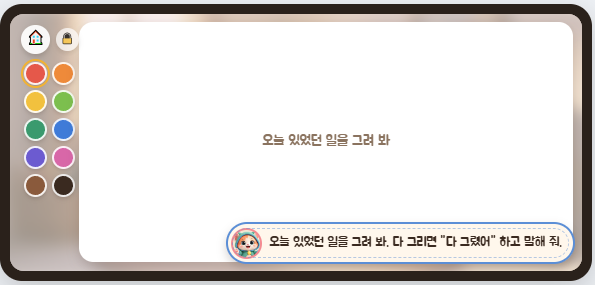
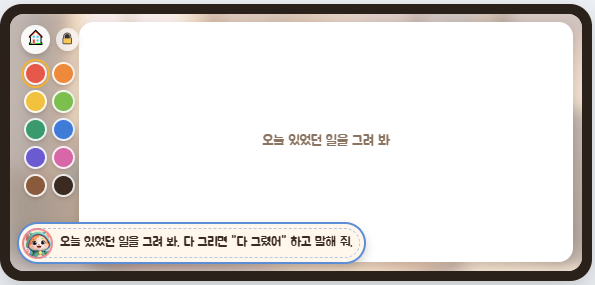
docs: Otto's line bottom-left while drawing; home buttons same size, effects on 'draw' only
Claude-Session: https://claude.ai/code/session_01SjSBQ7DtDnJYD2PENH3ma9

Changed region(s): [[0.0303, 0.7579, 0.9681, 0.9544], [0.5143, 0.8982, 0.5445, 0.9263]]

diff --git a/docs/일기모드_UI.html b/docs/일기모드_UI.html
@@ -60,7 +60,7 @@ button:focus-visible{outline:2px solid var(--accent);outline-offset:2px}
 .coin b{width:2.6cqw;height:2.6cqw;border-radius:50%;background:var(--coral);display:inline-block}
 
 /* narration band */
-.frame.drawing .band{left:auto;right:1.2cqw;bottom:1.2cqw;max-width:62cqw;min-height:0;gap:1.2cqw;padding:.6cqw 2cqw .6cqw .6cqw;border-width:.4cqw;border-radius:4cqw;cursor:pointer;transition:max-width .35s ease, padding .35s ease, opacity .35s ease;overflow:hidden}
+.frame.drawing .band{left:1.2cqw;right:auto;bottom:1.2cqw;max-width:62cqw;min-height:0;gap:1.2cqw;padding:.6cqw 2cqw .6cqw .6cqw;border-width:.4cqw;border-radius:4cqw;cursor:pointer;transition:max-width .35s ease, padding .35s ease, opacity .35s ease;overflow:hidden}
 .frame.drawing .band .face{width:5.4cqw;height:5.4cqw;border-width:.4cqw}
 .frame.drawing .band .line{font-size:2.2cqw;line-height:1.3}
 .frame.drawing .band.tuck{max-width:7cqw;padding:.6cqw;opacity:.9}
@@ -90,16 +90,16 @@ button:focus-visible{outline:2px solid var(--accent);outline-offset:2px}
 
 /* D0 */
 .otto-big{position:absolute;width:30cqw;left:10cqw;bottom:10cqw;filter:drop-shadow(0 1cqw 1.4cqw rgba(58,42,32,.25))}
-.start-actions{position:absolute;right:7cqw;top:5.5cqw;display:grid;gap:2.4cqw;justify-items:center}
-.start-actions .go{width:38cqw;height:19cqw;border-radius:7cqw;font-size:6.6cqw;display:flex;align-items:center;justify-content:center;gap:1.4cqw;
-  background:linear-gradient(165deg,#FF9A76 0%,var(--coral) 50%,#D9483A 100%);box-shadow:0 1.1cqw 0 #B23A2C,0 2.2cqw 3cqw rgba(58,42,32,.35),inset 0 0 0 .6cqw rgba(255,255,255,.22);
+.start-actions{position:absolute;right:8cqw;top:9cqw;display:grid;gap:2.6cqw;justify-items:center}
+.start-actions .go,.start-actions .no{width:28cqw;height:11cqw;border-radius:5.5cqw;font-size:3.4cqw}
+.start-actions .go{display:flex;align-items:center;justify-content:center;gap:1cqw;
+  background:linear-gradient(165deg,#FF9A76 0%,var(--coral) 50%,#D9483A 100%);box-shadow:0 .8cqw 0 #B23A2C,0 1.6cqw 2.4cqw rgba(58,42,32,.35),inset 0 0 0 .5cqw rgba(255,255,255,.22);
   text-shadow:0 .35cqw 0 rgba(150,40,30,.45);animation:goBob 1.8s ease-in-out infinite}
-.start-actions .go::before{content:"";position:absolute;inset:-1.6cqw;border-radius:8.6cqw;border:.6cqw solid var(--mustard);animation:goHalo 1.8s ease-out infinite;pointer-events:none}
+.start-actions .go::before{content:"";position:absolute;inset:-1.2cqw;border-radius:6.7cqw;border:.6cqw solid var(--mustard);animation:goHalo 1.8s ease-out infinite;pointer-events:none}
 .start-actions .go:active{animation:none;transform:translateY(.8cqw) scale(.97);box-shadow:0 .3cqw 0 #B23A2C,0 .8cqw 1.4cqw rgba(58,42,32,.3)}
-.go-ico{font-size:8.4cqw;display:inline-block;transform-origin:70% 80%;animation:goScribble 1.1s ease-in-out infinite}
-.go .sp{position:absolute;font-style:normal;font-size:3.4cqw;color:var(--mustard);text-shadow:0 0 1cqw #fff;animation:twinkle 1.6s ease-in-out infinite;pointer-events:none}
-.start-actions .no{border:none;background:rgba(255,255,255,.7);color:var(--app-ink-soft);font-family:var(--kid);font-size:1.8cqw;padding:.8cqw 2.2cqw;border-radius:3cqw;cursor:pointer}
-@keyframes goBob{0%,100%{transform:translateY(0) rotate(-1deg)}50%{transform:translateY(-1cqw) rotate(1deg)}}
+.go-ico{font-size:4.4cqw;display:inline-block;transform-origin:70% 80%;animation:goScribble 1.1s ease-in-out infinite}
+.go .sp{position:absolute;font-style:normal;font-size:2.6cqw;color:var(--mustard);text-shadow:0 0 1cqw #fff;animation:twinkle 1.6s ease-in-out infinite;pointer-events:none}
+@keyframes goBob{0%,100%{transform:translateY(0) rotate(-1deg)}50%{transform:translateY(-.6cqw) rotate(1deg)}}
 @keyframes goHalo{0%{transform:scale(.94);opacity:.95}100%{transform:scale(1.14);opacity:0}}
 @keyframes goScribble{0%,100%{transform:rotate(0)}25%{transform:rotate(-14deg) translateY(-.4cqw)}50%{transform:rotate(6deg)}75%{transform:rotate(-8deg) translateY(-.2cqw)}}
 @keyframes twinkle{0%,100%{transform:scale(.6) rotate(0);opacity:.4}50%{transform:scale(1.25) rotate(25deg);opacity:1}}
@@ -398,8 +398,8 @@ table.t td.k{font-family:var(--mono);font-size:11.5px;white-space:nowrap;color:v
           <div class="coin"><b></b>오늘 2권</div>
           <img class="otto-big" src="img/diary_ui/wave.png" alt="손 흔드는 오또">
           <div class="start-actions">
-            <button class="felt coral go" id="btn-draw"><span class="go-ico">🖍</span><span class="go-txt">그릴래!</span><i class="sp" style="left:-2cqw;top:-2.4cqw">✦</i><i class="sp" style="right:-1.6cqw;top:-1.2cqw;animation-delay:.5s">★</i><i class="sp" style="left:3cqw;bottom:-2.6cqw;animation-delay:.9s">✦</i><i class="sp" style="right:4cqw;bottom:-2.2cqw;animation-delay:.3s;color:var(--sky)">●</i></button>
-            <button class="no" id="btn-talk">그림 없이 말할래</button>
+            <button class="felt coral go" id="btn-draw"><span class="go-ico">🖍</span><span class="go-txt">그릴래!</span><i class="sp" style="left:-2cqw;top:-2.4cqw">✦</i><i class="sp" style="right:-1.6cqw;top:-1.2cqw;animation-delay:.5s">★</i><i class="sp" style="left:-2.6cqw;bottom:.4cqw;animation-delay:.9s">✦</i><i class="sp" style="right:-2.4cqw;bottom:1.2cqw;animation-delay:.3s;color:var(--sky)">●</i></button>
+            <button class="felt cream no" id="btn-talk">그림 없이 말할래</button>
           </div>
         </section>
 

diff --git a/docs/review/일기모드_0929/README.md b/docs/review/일기모드_0929/README.md
@@ -46,9 +46,9 @@
 | `37_오려내기_바꿀거질문없음` | 오려 내기에서 **"다른 모습으로 바꿔 보고 싶은 거 있어?" 질문을 뺌**. 오또 그림은 그리는 동안 부탁한 것만 |
 | `38_스티커_펑` · `39_스티커_띠용` | 오려 내기 스티커에서 골라도 같은 펑 · 띠용 |
 | `40_오려내기_도구버튼_위로` | 조각을 고르면 나오는 [오또 그림 보기] · [자르기] 버튼이 나레이션 칸에 가려져 있었다 → 스티커 판 위로 올림 |
-| `41_홈_그릴래_크게` | 홈의 **[그릴래!]를 크고 화려하게** — 그라데이션 · 크레용이 끄적이며 흔들림 · 노란 테두리가 퍼짐 · 반짝이. 「그림 없이 말할래」는 작은 글자 버튼으로 |
-| `42_D1_꽉찬화이트보드_대사` | **화이트보드가 크레용 옆 화면 전체**(86.5×42, 전보다 약 1.5배). 오또 대사는 오른쪽 아래 작은 말풍선으로 잠깐 |
-| `43_D1_대사접힘_얼굴만` | 몇 초 뒤 대사는 접히고 **오또 얼굴만** 남는다(대사는 TTS로 들림). 듣는 중이면 얼굴이 반짝. 얼굴을 톡 하면 다시 펼침 |
+| `41_홈_그릴래_같은크기_이펙트` | 홈의 두 버튼은 **크기가 같고**, 이펙트는 **[그릴래!]에만** — 그라데이션 · 크레용이 끄적이며 흔들림 · 노란 테두리가 퍼짐 · 반짝이 · 살랑 |
+| `42_D1_꽉찬화이트보드_대사` | **화이트보드가 크레용 옆 화면 전체**(86.5×42, 전보다 약 1.5배). 오또 대사는 **왼쪽 아래** 작은 말풍선으로 잠깐 |
+| `43_D1_대사접힘_얼굴만` | 몇 초 뒤 대사는 접히고 크레용 아래에 **오또 얼굴만** 남는다(대사는 TTS로 들림). 듣는 중이면 얼굴이 반짝. 얼굴을 톡 하면 다시 펼침 |
 | `44_펑2_터짐` ~ `46_펑2_오또그림` | **더 화려해진 펑**: 번쩍 · 고리 두 겹 · 방사선 · 노란 별 · 연기 구름 18개 · 날아가는 반짝이 · 화이트보드가 살짝 흔들림 → 오또 그림이 튀어나옴 |
 | `47_D5_그림칸_맞춤` | 화이트보드가 3:1보다 높아져서, 그림일기의 3:1 그림 칸에는 **그린 부분만 잘라 같은 비율로** 맞춰 넣는다(찌그러짐 없음). 퍼즐 · 표지도 같은 방식 |
 | `참고_자동입력_글자깨짐` | 자동 입력 도구가 긴 한글을 망가뜨린 경우("쩩쩩", "뛰"에서 끊김). **앱 문제 아님**. 이후 대답은 입력 칸에 값을 넣는 방식으로 진행 |
